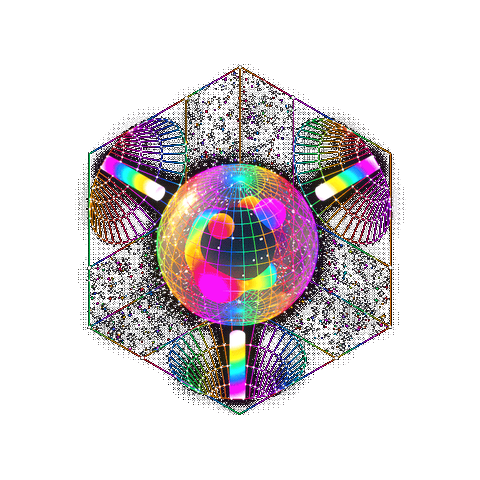
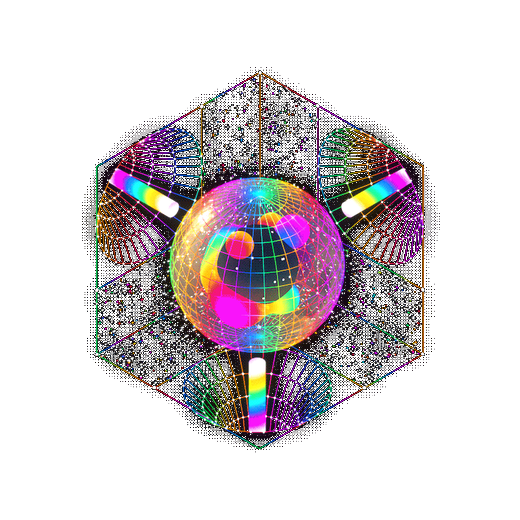
feat(seraphim): hex-core gyro seal replaces wire dodeca

Changed region(s): [[0.1562, 0.125, 0.8438, 0.875], [0.4062, 0.5, 0.4375, 0.5312], [0.375, 0.5625, 0.4062, 0.5938]]

diff --git a/docs/index.html b/docs/index.html
@@ -20,7 +20,7 @@
 <style>
 *{box-sizing:border-box;margin:0;padding:0}
 :root{
-  /* holoPalette|bgWireRemoved|bgCityGlint|hudSortAnalyze|hybridBridge|gyroHarmony|terrainWarp|fgContrast|chimeraUltimate|customProcedural|uploadSortedDesk|uploadSortFX|publicOrganizeLabels|dumpToContent|cameraCleanChrome|markdownDesk|markdownMaster|motionIntricateFast|hybridEngineTrio|masterpieceFlow|balancePolish|bgSealCenterLock|refinePolish2|beyondAIMaster|omnidiscipline|simkinsAI|excessPrune|stripToBones|tunnelGridBg|tunnelAsSent|gatherThenSort|fourAssetCanon|voxelCubeRotate|tripleBeamInCore|tunnelInvertWB|hexCoreAsSent: dark futuristic HUD sorting+analyzing */
+  /* holoPalette|bgWireRemoved|bgCityGlint|hudSortAnalyze|hybridBridge|gyroHarmony|terrainWarp|fgContrast|chimeraUltimate|customProcedural|uploadSortedDesk|uploadSortFX|publicOrganizeLabels|dumpToContent|cameraCleanChrome|markdownDesk|markdownMaster|motionIntricateFast|hybridEngineTrio|masterpieceFlow|balancePolish|bgSealCenterLock|refinePolish2|beyondAIMaster|omnidiscipline|simkinsAI|excessPrune|stripToBones|tunnelGridBg|tunnelAsSent|gatherThenSort|fourAssetCanon|hexCoreGyroSeal|voxelCubeRotate|tripleBeamInCore|tunnelInvertWB|hexCoreAsSent: dark futuristic HUD sorting+analyzing */
   --void:#000;--ink:#e8e6f8;--mute:#8a90c0;
   --admit:#56b4c2;--release:#c664c0;--mint:#c8e090;
   --cyan:#56b4c2;--mag:#ae3dbf;--warn:#f0c878;
@@ -358,10 +358,8 @@ body:not(.reveal-chrome) #sub{opacity:0!important;pointer-events:none!important}
 /* beam rain moved into hexCore trio */
 /* 4 hex core + tripleBeamInCore */
 #bgField .hexCore{z-index:3}
-#bgField .hexCore .plane.coreMain{
-  width:min(72vmin,640px); height:min(72vmin,640px);
-  opacity:1;
-}
+#bgField .hexCore .plane.coreMain{ position:absolute; inset:0; width:100%; height:100%; opacity:1; }
+
 @media (max-width:900px){
   #bgField .isoTunnel .plane{opacity:0.35; width:min(88vmin,560px); height:min(88vmin,560px)}
   #bgField .hexCore .plane{width:min(64vmin,480px); height:min(64vmin,480px)}
@@ -391,10 +389,10 @@ body:not(.reveal-chrome) #sub{opacity:0!important;pointer-events:none!important}
 #bgField .hexCore .plane.coreMain img{
   display:block;width:100%;height:100%;object-fit:contain;object-position:center;
 }
-#bgField .hexCore .beamTrio{
+#bgField .hexCore .gyroRig .beamTrio{
   position:absolute;
-  left:var(--seal-x); top:var(--seal-y);
-  width:min(72vmin,640px); height:min(72vmin,640px);
+  left:50%; top:50%;
+  width:100%; height:100%;
   transform:translate(-50%,-50%);
   pointer-events:none;
   z-index:4;
@@ -429,9 +427,9 @@ body:not(.reveal-chrome) #sub{opacity:0!important;pointer-events:none!important}
 
 
 /* voxelCubeRotate|cutBlackBg — keyed voxel cube, CSS 3D rotate in hex-core center */
-#bgField .hexCore .voxelSpin{
+#bgField .hexCore .gyroRig .voxelSpin{
   position:absolute;
-  left:var(--seal-x); top:var(--seal-y);
+  left:50%; top:50%;
   width:min(28vmin,240px); height:min(26vmin,220px);
   transform:translate(-50%,-50%);
   transform-style:preserve-3d;
@@ -461,6 +459,63 @@ body:not(.reveal-chrome) #sub{opacity:0!important;pointer-events:none!important}
   #bgField .hexCore .voxelSpin .spin{animation:none}
   #bgField .hexCore .voxelSpin img.anim{display:none}
   #bgField .hexCore .voxelSpin img.still{display:block}
+}
+
+
+/* hexCoreGyroSeal — replace wire dodeca with keyed hex-core GIF; omni gyro from seal center */
+#bgField .hexCore{
+  position:absolute;inset:0;z-index:3;overflow:visible;
+  perspective:900px;
+  perspective-origin:var(--seal-x) var(--seal-y);
+}
+#bgField .hexCore .gyroRig{
+  position:absolute;
+  left:var(--seal-x); top:var(--seal-y);
+  width:min(78vmin,680px); height:min(78vmin,680px);
+  transform:translate(-50%,-50%);
+  transform-style:preserve-3d;
+  transform-origin:50% 50%;
+  animation:hexOmniGyro 18s linear infinite; /* constant ω */
+}
+#bgField .hexCore .plane.coreMain{
+  position:absolute; inset:0;
+  width:100%; height:100%;
+  left:auto; top:auto;
+  transform:none;
+  opacity:1;
+}
+#bgField .hexCore .plane.coreMain picture,
+#bgField .hexCore .plane.coreMain img{
+  display:block;width:100%;height:100%;object-fit:contain;object-position:center;
+}
+/* child layers ride the same gyro rig */
+#bgField .hexCore .beamTrio,
+#bgField .hexCore .voxelSpin{
+  left:50%; top:50%;
+  /* override seal var — now relative to gyroRig */
+}
+#bgField .hexCore .gyroRig .beamTrio{
+  position:absolute; left:50%; top:50%;
+  width:100%; height:100%;
+  transform:translate(-50%,-50%);
+  z-index:4;
+}
+#bgField .hexCore .gyroRig .voxelSpin{
+  position:absolute; left:50%; top:50%;
+  width:min(28vmin,240px); height:min(26vmin,220px);
+  transform:translate(-50%,-50%);
+  z-index:5;
+}
+@keyframes hexOmniGyro{
+  /* yaw + pitch + roll family — constant rates (φ-ish ratios) */
+  0%{ transform:translate(-50%,-50%) rotateY(0deg) rotateX(18deg) rotateZ(0deg); }
+  100%{ transform:translate(-50%,-50%) rotateY(360deg) rotateX(378deg) rotateZ(222.5deg); }
+}
+@media (max-width:900px){
+  #bgField .hexCore .gyroRig{ width:min(70vmin,520px); height:min(70vmin,520px); }
+}
+@media (prefers-reduced-motion:reduce){
+  #bgField .hexCore .gyroRig{ animation:none; transform:translate(-50%,-50%) rotateX(12deg); }
 }
 
 /* —— uploadSortedDesk: obvious upload + sorted figures trays —— */
@@ -691,6 +746,7 @@ body:not(.reveal-chrome) #sub{opacity:0!important;pointer-events:none!important}
     </div>
   </div>
 <div class="assetLayer hexCore" aria-hidden="true">
+    <div class="gyroRig">
     <div class="plane coreMain">
       <picture>
         <source srcset="media/hex-core.webp" type="image/webp">
@@ -720,6 +776,8 @@ body:not(.reveal-chrome) #sub{opacity:0!important;pointer-events:none!important}
         </picture>
         <img class="still" src="media/voxel-cube-still.png" alt="" width="360" height="330" decoding="async" style="display:none">
       </div>
+    </div>
+  
     </div>
   </div>
 </div>
@@ -1940,7 +1998,7 @@ function drawDualHexGhost(cx,cy,s,t){
   }
   ctx.restore();
 }
-function drawChromaticHexEdges(verts,t){
+function drawChromaticHexEdges(verts,t){ /* hexCoreGyroSeal: skip drawChromaticHexEdges */ if(true) return;
   /* stripToBones: cut — fights seal/desk clarity */
   return;
   /* omnidiscipline: Fresnel-ish rim + thin-film fringe on near edges; skip ≤900 */
@@ -2130,7 +2188,7 @@ function drawSoftCrossVeil(){
   ctx.restore();
 }
 
-function drawCrtPolish(cx,cy,s,t){
+function drawCrtPolish(cx,cy,s,t){ /* hexCoreGyroSeal: skip drawCrtPolish */ if(true) return;
   /* stripToBones: cut — fights seal/desk clarity */
   return;
   /* excessPrune|crtPolish: scanlines cut (mud); hub flares only, quieter; skipHeavy.
@@ -2321,7 +2379,7 @@ function drawDodecaFrame(cx,cy,s,t){
 }
 const drawHexFrame=drawDodecaFrame; /* alias — existing call sites keep working */
 
-function drawInnerCubeWire(cx,cy,s,t){
+function drawInnerCubeWire(cx,cy,s,t){ /* hexCoreGyroSeal: skip drawInnerCubeWire */ if(true) return;
   /* crisp luminous cube wireframe — tether hubs; contrast bumped so nodes read as lock-ins */
   const proj=INNER_CUBE._proj;
   if(!proj||!proj.corners||proj.corners.length<8) return;
@@ -3082,7 +3140,7 @@ function drawFunnelsAndBeams(cx,cy,s,t){
   ctx.restore(); return mouths;
 }
 
-function drawSphereWire(cx,cy,s,t){
+function drawSphereWire(cx,cy,s,t){ /* hexCoreGyroSeal: skip drawSphereWire */ if(true) return;
   /* excessPrune: Ylm/Hopf sphere fought dodeca — no-op */
   return;
   /* omnidiscipline: spherical-harmonics shimmer + Hopf/torus whisper — skip ≤900; α quiet */
@@ -3866,7 +3924,7 @@ function drawGeodesicAccents(cx,cy,s,t){
   ctx.restore();
 }
 
-function drawNestedSeals(cx,cy,s,t){
+function drawNestedSeals(cx,cy,s,t){ /* hexCoreGyroSeal: skip drawNestedSeals */ if(true) return;
   /* stripToBones: cut — fights seal/desk clarity */
   return;
   /* beyondAIMaster|recursiveNest: ≤3 shells + FIG-ish micro-geo under seal; never a second seal */
@@ -3986,7 +4044,7 @@ function drawGhostOrbits(cx,cy,s,t){
   ctx.restore();
 }
 
-function drawProveBreak(cx,cy,s,t){
+function drawProveBreak(cx,cy,s,t){ /* hexCoreGyroSeal: skip drawProveBreak */ if(true) return;
   /* stripToBones: cut — fights seal/desk clarity */
   return;
   /* prove-or-break: geometric residual readout around focus — LIGHT not HTML form */
@@ -4064,7 +4122,7 @@ function drawProveBreak(cx,cy,s,t){
   ctx.beginPath(); ctx.arc(px,py,R0+10+expand*36,0,Math.PI*2); ctx.stroke();
   ctx.restore();
 }
-function drawSealBreath(cx,cy,s,t){
+function drawSealBreath(cx,cy,s,t){ /* hexCoreGyroSeal: skip drawSealBreath */ if(true) return;
   const fill=Math.max(0,Math.min(1,lastCI/100)), breath=0.5+0.5*Math.sin(t*TEMPO.base*PHI*PHI*PHI), R=s*0.48*(1+0.02*breath+0.08*sealPulse);
   ctx.save(); ctx.globalCompositeOperation="lighter";
   ctx.strokeStyle="rgba(86,180,194,0.18)"; ctx.lineWidth=2; ctx.beginPath();ctx.arc(cx,cy,R,0,Math.PI*2);ctx.stroke();

diff --git a/standalone.html b/standalone.html
@@ -20,7 +20,7 @@
 <style>
 *{box-sizing:border-box;margin:0;padding:0}
 :root{
-  /* holoPalette|bgWireRemoved|bgCityGlint|hudSortAnalyze|hybridBridge|gyroHarmony|terrainWarp|fgContrast|chimeraUltimate|customProcedural|uploadSortedDesk|uploadSortFX|publicOrganizeLabels|dumpToContent|cameraCleanChrome|markdownDesk|markdownMaster|motionIntricateFast|hybridEngineTrio|masterpieceFlow|balancePolish|bgSealCenterLock|refinePolish2|beyondAIMaster|omnidiscipline|simkinsAI|excessPrune|stripToBones|tunnelGridBg|tunnelAsSent|gatherThenSort|fourAssetCanon|voxelCubeRotate|tripleBeamInCore|tunnelInvertWB|hexCoreAsSent: dark futuristic HUD sorting+analyzing */
+  /* holoPalette|bgWireRemoved|bgCityGlint|hudSortAnalyze|hybridBridge|gyroHarmony|terrainWarp|fgContrast|chimeraUltimate|customProcedural|uploadSortedDesk|uploadSortFX|publicOrganizeLabels|dumpToContent|cameraCleanChrome|markdownDesk|markdownMaster|motionIntricateFast|hybridEngineTrio|masterpieceFlow|balancePolish|bgSealCenterLock|refinePolish2|beyondAIMaster|omnidiscipline|simkinsAI|excessPrune|stripToBones|tunnelGridBg|tunnelAsSent|gatherThenSort|fourAssetCanon|hexCoreGyroSeal|voxelCubeRotate|tripleBeamInCore|tunnelInvertWB|hexCoreAsSent: dark futuristic HUD sorting+analyzing */
   --void:#000;--ink:#e8e6f8;--mute:#8a90c0;
   --admit:#56b4c2;--release:#c664c0;--mint:#c8e090;
   --cyan:#56b4c2;--mag:#ae3dbf;--warn:#f0c878;
@@ -358,10 +358,8 @@ body:not(.reveal-chrome) #sub{opacity:0!important;pointer-events:none!important}
 /* beam rain moved into hexCore trio */
 /* 4 hex core + tripleBeamInCore */
 #bgField .hexCore{z-index:3}
-#bgField .hexCore .plane.coreMain{
-  width:min(72vmin,640px); height:min(72vmin,640px);
-  opacity:1;
-}
+#bgField .hexCore .plane.coreMain{ position:absolute; inset:0; width:100%; height:100%; opacity:1; }
+
 @media (max-width:900px){
   #bgField .isoTunnel .plane{opacity:0.35; width:min(88vmin,560px); height:min(88vmin,560px)}
   #bgField .hexCore .plane{width:min(64vmin,480px); height:min(64vmin,480px)}
@@ -391,10 +389,10 @@ body:not(.reveal-chrome) #sub{opacity:0!important;pointer-events:none!important}
 #bgField .hexCore .plane.coreMain img{
   display:block;width:100%;height:100%;object-fit:contain;object-position:center;
 }
-#bgField .hexCore .beamTrio{
+#bgField .hexCore .gyroRig .beamTrio{
   position:absolute;
-  left:var(--seal-x); top:var(--seal-y);
-  width:min(72vmin,640px); height:min(72vmin,640px);
+  left:50%; top:50%;
+  width:100%; height:100%;
   transform:translate(-50%,-50%);
   pointer-events:none;
   z-index:4;
@@ -429,9 +427,9 @@ body:not(.reveal-chrome) #sub{opacity:0!important;pointer-events:none!important}
 
 
 /* voxelCubeRotate|cutBlackBg — keyed voxel cube, CSS 3D rotate in hex-core center */
-#bgField .hexCore .voxelSpin{
+#bgField .hexCore .gyroRig .voxelSpin{
   position:absolute;
-  left:var(--seal-x); top:var(--seal-y);
+  left:50%; top:50%;
   width:min(28vmin,240px); height:min(26vmin,220px);
   transform:translate(-50%,-50%);
   transform-style:preserve-3d;
@@ -461,6 +459,63 @@ body:not(.reveal-chrome) #sub{opacity:0!important;pointer-events:none!important}
   #bgField .hexCore .voxelSpin .spin{animation:none}
   #bgField .hexCore .voxelSpin img.anim{display:none}
   #bgField .hexCore .voxelSpin img.still{display:block}
+}
+
+
+/* hexCoreGyroSeal — replace wire dodeca with keyed hex-core GIF; omni gyro from seal center */
+#bgField .hexCore{
+  position:absolute;inset:0;z-index:3;overflow:visible;
+  perspective:900px;
+  perspective-origin:var(--seal-x) var(--seal-y);
+}
+#bgField .hexCore .gyroRig{
+  position:absolute;
+  left:var(--seal-x); top:var(--seal-y);
+  width:min(78vmin,680px); height:min(78vmin,680px);
+  transform:translate(-50%,-50%);
+  transform-style:preserve-3d;
+  transform-origin:50% 50%;
+  animation:hexOmniGyro 18s linear infinite; /* constant ω */
+}
+#bgField .hexCore .plane.coreMain{
+  position:absolute; inset:0;
+  width:100%; height:100%;
+  left:auto; top:auto;
+  transform:none;
+  opacity:1;
+}
+#bgField .hexCore .plane.coreMain picture,
+#bgField .hexCore .plane.coreMain img{
+  display:block;width:100%;height:100%;object-fit:contain;object-position:center;
+}
+/* child layers ride the same gyro rig */
+#bgField .hexCore .beamTrio,
+#bgField .hexCore .voxelSpin{
+  left:50%; top:50%;
+  /* override seal var — now relative to gyroRig */
+}
+#bgField .hexCore .gyroRig .beamTrio{
+  position:absolute; left:50%; top:50%;
+  width:100%; height:100%;
+  transform:translate(-50%,-50%);
+  z-index:4;
+}
+#bgField .hexCore .gyroRig .voxelSpin{
+  position:absolute; left:50%; top:50%;
+  width:min(28vmin,240px); height:min(26vmin,220px);
+  transform:translate(-50%,-50%);
+  z-index:5;
+}
+@keyframes hexOmniGyro{
+  /* yaw + pitch + roll family — constant rates (φ-ish ratios) */
+  0%{ transform:translate(-50%,-50%) rotateY(0deg) rotateX(18deg) rotateZ(0deg); }
+  100%{ transform:translate(-50%,-50%) rotateY(360deg) rotateX(378deg) rotateZ(222.5deg); }
+}
+@media (max-width:900px){
+  #bgField .hexCore .gyroRig{ width:min(70vmin,520px); height:min(70vmin,520px); }
+}
+@media (prefers-reduced-motion:reduce){
+  #bgField .hexCore .gyroRig{ animation:none; transform:translate(-50%,-50%) rotateX(12deg); }
 }
 
 /* —— uploadSortedDesk: obvious upload + sorted figures trays —— */
@@ -691,6 +746,7 @@ body:not(.reveal-chrome) #sub{opacity:0!important;pointer-events:none!important}
     </div>
   </div>
 <div class="assetLayer hexCore" aria-hidden="true">
+    <div class="gyroRig">
     <div class="plane coreMain">
       <picture>
         <source srcset="media/hex-core.webp" type="image/webp">
@@ -720,6 +776,8 @@ body:not(.reveal-chrome) #sub{opacity:0!important;pointer-events:none!important}
         </picture>
         <img class="still" src="media/voxel-cube-still.png" alt="" width="360" height="330" decoding="async" style="display:none">
       </div>
+    </div>
+  
     </div>
   </div>
 </div>
@@ -1940,7 +1998,7 @@ function drawDualHexGhost(cx,cy,s,t){
   }
   ctx.restore();
 }
-function drawChromaticHexEdges(verts,t){
+function drawChromaticHexEdges(verts,t){ /* hexCoreGyroSeal: skip drawChromaticHexEdges */ if(true) return;
   /* stripToBones: cut — fights seal/desk clarity */
   return;
   /* omnidiscipline: Fresnel-ish rim + thin-film fringe on near edges; skip ≤900 */
@@ -2130,7 +2188,7 @@ function drawSoftCrossVeil(){
   ctx.restore();
 }
 
-function drawCrtPolish(cx,cy,s,t){
+function drawCrtPolish(cx,cy,s,t){ /* hexCoreGyroSeal: skip drawCrtPolish */ if(true) return;
   /* stripToBones: cut — fights seal/desk clarity */
   return;
   /* excessPrune|crtPolish: scanlines cut (mud); hub flares only, quieter; skipHeavy.
@@ -2321,7 +2379,7 @@ function drawDodecaFrame(cx,cy,s,t){
 }
 const drawHexFrame=drawDodecaFrame; /* alias — existing call sites keep working */
 
-function drawInnerCubeWire(cx,cy,s,t){
+function drawInnerCubeWire(cx,cy,s,t){ /* hexCoreGyroSeal: skip drawInnerCubeWire */ if(true) return;
   /* crisp luminous cube wireframe — tether hubs; contrast bumped so nodes read as lock-ins */
   const proj=INNER_CUBE._proj;
   if(!proj||!proj.corners||proj.corners.length<8) return;
@@ -3082,7 +3140,7 @@ function drawFunnelsAndBeams(cx,cy,s,t){
   ctx.restore(); return mouths;
 }
 
-function drawSphereWire(cx,cy,s,t){
+function drawSphereWire(cx,cy,s,t){ /* hexCoreGyroSeal: skip drawSphereWire */ if(true) return;
   /* excessPrune: Ylm/Hopf sphere fought dodeca — no-op */
   return;
   /* omnidiscipline: spherical-harmonics shimmer + Hopf/torus whisper — skip ≤900; α quiet */
@@ -3866,7 +3924,7 @@ function drawGeodesicAccents(cx,cy,s,t){
   ctx.restore();
 }
 
-function drawNestedSeals(cx,cy,s,t){
+function drawNestedSeals(cx,cy,s,t){ /* hexCoreGyroSeal: skip drawNestedSeals */ if(true) return;
   /* stripToBones: cut — fights seal/desk clarity */
   return;
   /* beyondAIMaster|recursiveNest: ≤3 shells + FIG-ish micro-geo under seal; never a second seal */
@@ -3986,7 +4044,7 @@ function drawGhostOrbits(cx,cy,s,t){
   ctx.restore();
 }
 
-function drawProveBreak(cx,cy,s,t){
+function drawProveBreak(cx,cy,s,t){ /* hexCoreGyroSeal: skip drawProveBreak */ if(true) return;
   /* stripToBones: cut — fights seal/desk clarity */
   return;
   /* prove-or-break: geometric residual readout around focus — LIGHT not HTML form */
@@ -4064,7 +4122,7 @@ function drawProveBreak(cx,cy,s,t){
   ctx.beginPath(); ctx.arc(px,py,R0+10+expand*36,0,Math.PI*2); ctx.stroke();
   ctx.restore();
 }
-function drawSealBreath(cx,cy,s,t){
+function drawSealBreath(cx,cy,s,t){ /* hexCoreGyroSeal: skip drawSealBreath */ if(true) return;
   const fill=Math.max(0,Math.min(1,lastCI/100)), breath=0.5+0.5*Math.sin(t*TEMPO.base*PHI*PHI*PHI), R=s*0.48*(1+0.02*breath+0.08*sealPulse);
   ctx.save(); ctx.globalCompositeOperation="lighter";
   ctx.strokeStyle="rgba(86,180,194,0.18)"; ctx.lineWidth=2; ctx.beginPath();ctx.arc(cx,cy,R,0,Math.PI*2);ctx.stroke();
